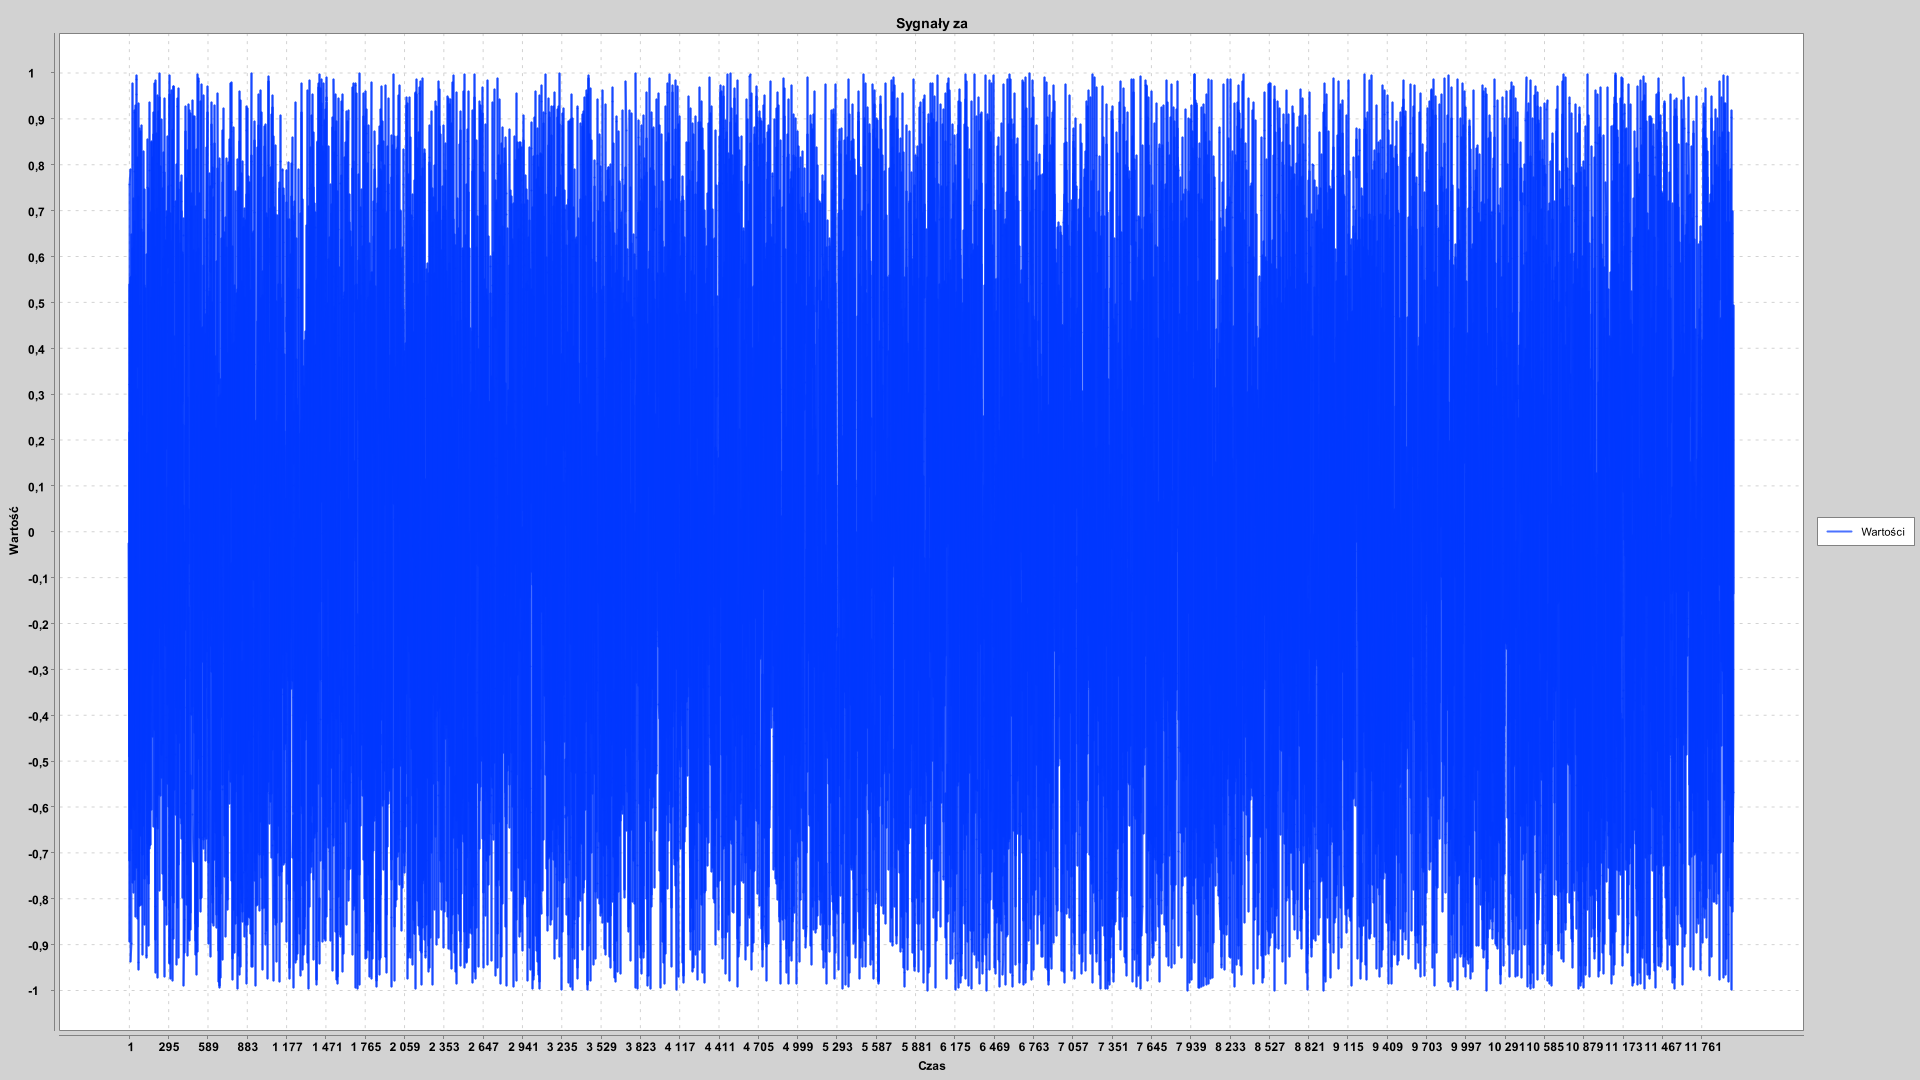
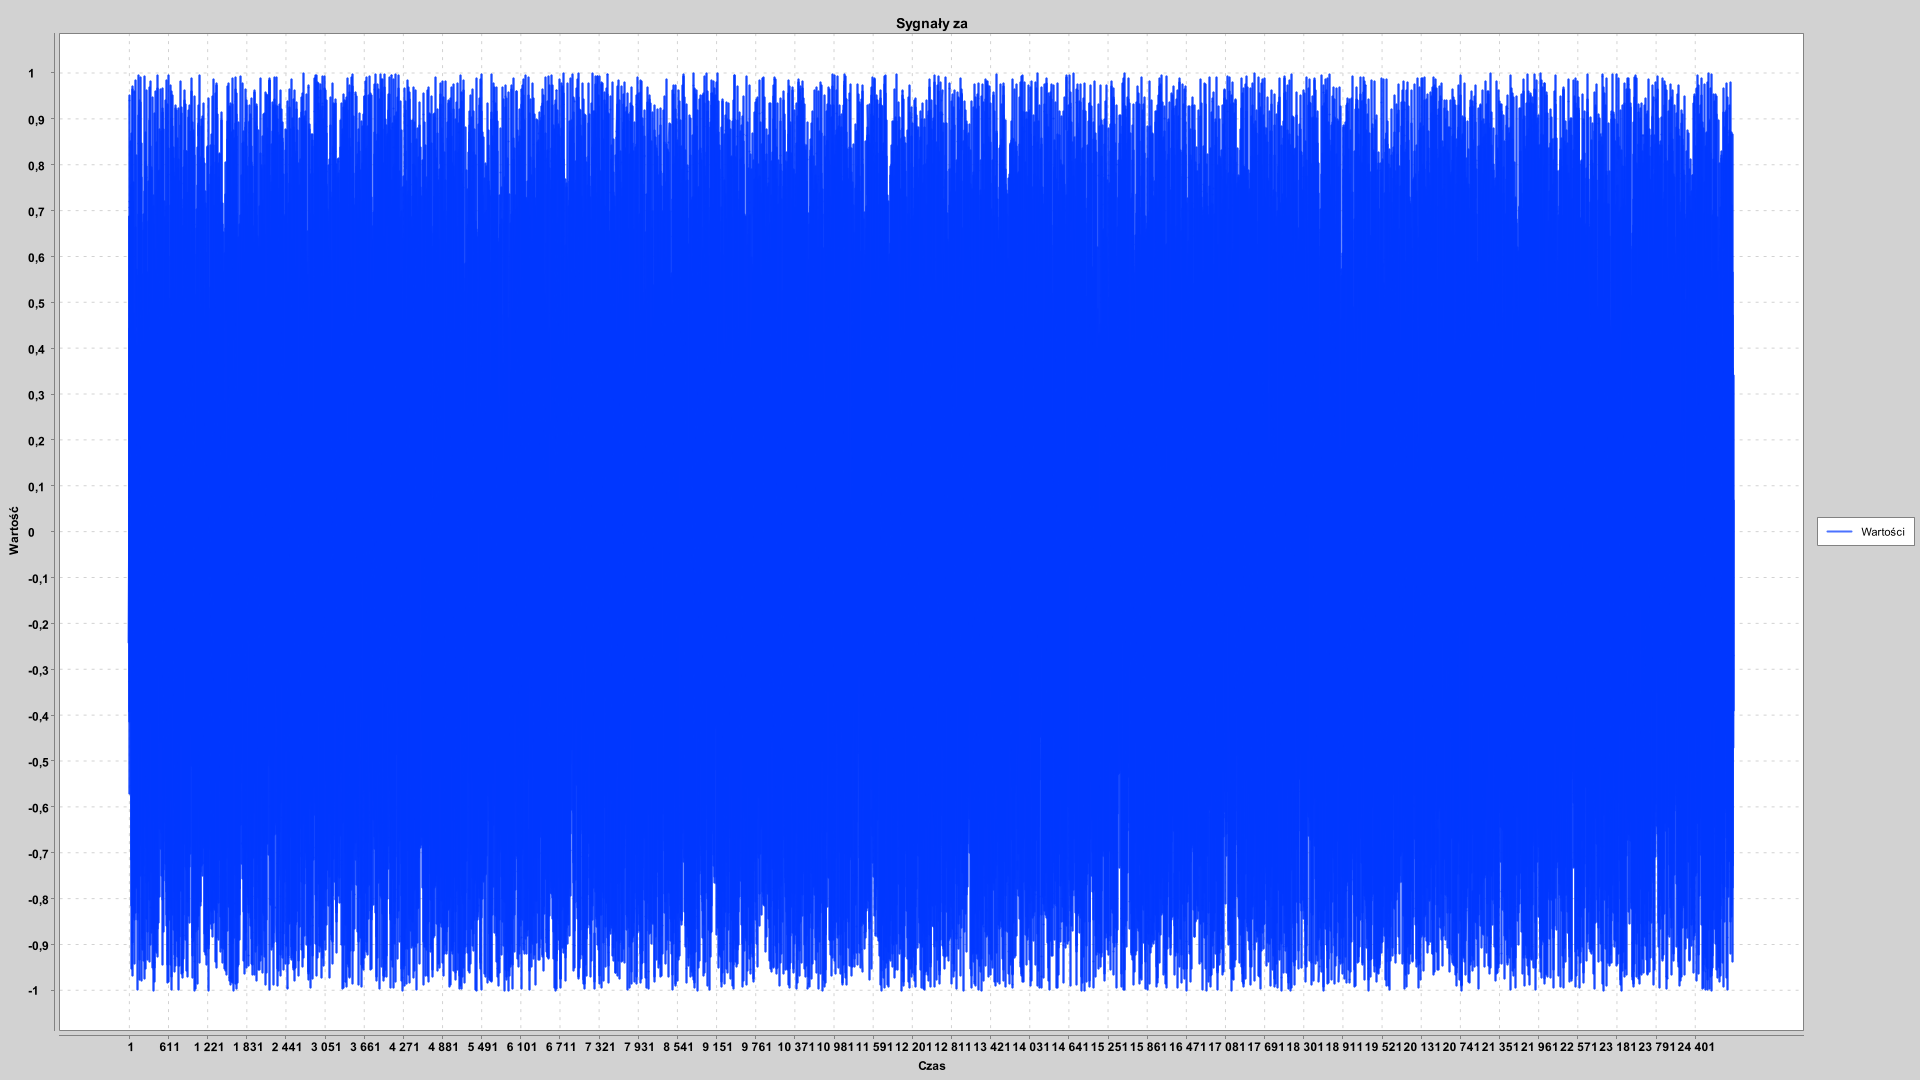
13.06

Changed region(s): [[0.0625, 0.0611, 0.9062, 0.3056], [0.0625, 0.7028, 0.9062, 0.9167], [0.0938, 0.9472, 0.9062, 0.9778]]

diff --git a/src/Lab7/Main.java b/src/Lab7/Main.java
@@ -5,14 +5,15 @@ import org.knowm.xchart.XYChart;
 import org.knowm.xchart.XYChartBuilder;
 import org.knowm.xchart.style.markers.SeriesMarkers;
 
+import java.io.FileOutputStream;
 import java.io.IOException;
 import java.util.*;
 
 import static java.lang.Math.PI;
 
 public class Main {
-    public static double fs = 2000;
-    public static double tc = 6.0;
+    public static double fs = 1000;
+    public static double tc = 25.0;
     public static int N = (int) (fs * tc);
     public static int w = 2;
     public static double a1 = 1;
@@ -75,14 +76,23 @@ public class Main {
             ofs = ofs + tbp;
         }
 
-        return transmisionZad2(za, whiteNoise(za.length),0);
-//        return transmisionZad3(za, whiteNoise(za.length),8);
+        XYChart chartCASK = new XYChartBuilder().width(1920).height(1080).title("Sygnały za").xAxisTitle("Czas").yAxisTitle("Wartość").build();
+        chartCASK.addSeries("Wartości", null, za).setMarker(SeriesMarkers.NONE);
+
+        try {
+            BitmapEncoder.saveBitmap(chartCASK, "src/Lab7/za.png", BitmapEncoder.BitmapFormat.PNG);
+        } catch (IOException e) {
+            e.printStackTrace();
+        }
+
+//        return transmisionZad2(za, whiteNoise(za.length), 1);
+        return transmisionZad3(za, 1);
 //        return transmisionZad4_1(za, whiteNoise(za.length), 0, 8);
 //        return transmisionZad4_2(za, whiteNoise(za.length), 0, 8);
     }
 
     public static List<Double> transmisionZad2(double[] ASK, double[] whiteNoise, int alfa) {
-        List<Double> yASK = new ArrayList<>();
+       List<Double> yASK = new ArrayList<>();
         for (int i = 0; i < ASK.length; i++) {
             yASK.add(ASK[i] + alfa * whiteNoise[i]);
         }
@@ -90,7 +100,7 @@ public class Main {
         return yASK;
     }
 
-    public static List<Double> transmisionZad3(double[] ASK, double[] whiteNoise, int beta) {
+    public static List<Double> transmisionZad3(double[] ASK, double beta) {
         List<Double> yASK = new ArrayList<>();
         for (int i = 0; i < ASK.length; i++) {
             yASK.add(ASK[i] * Math.exp(-beta * i));
@@ -135,7 +145,16 @@ public class Main {
             }
         }
 
-        double h = 30;
+        XYChart chartCASK = new XYChartBuilder().width(1920).height(1080).title("Sygnały za").xAxisTitle("Czas").yAxisTitle("Wartość").build();
+        chartCASK.addSeries("Wartości", null, pASK).setMarker(SeriesMarkers.NONE);
+
+        try {
+            BitmapEncoder.saveBitmap(chartCASK, "src/Lab7/pASK.png", BitmapEncoder.BitmapFormat.PNG);
+        } catch (IOException e) {
+            e.printStackTrace();
+        }
+
+        double h = 50;
 
         double[] cASK = new double[N];
         for (int i = 0; i < N; i++) {
@@ -152,7 +171,10 @@ public class Main {
             }
             if (oneCounterASK > Main.tbp/2-1) {
                 counterASK.add(1);
-            } else {counterASK.add(0);}
+            } else {
+                counterASK.add(0);
+            }
+
             oneCounterASK = 0;
         }
 
